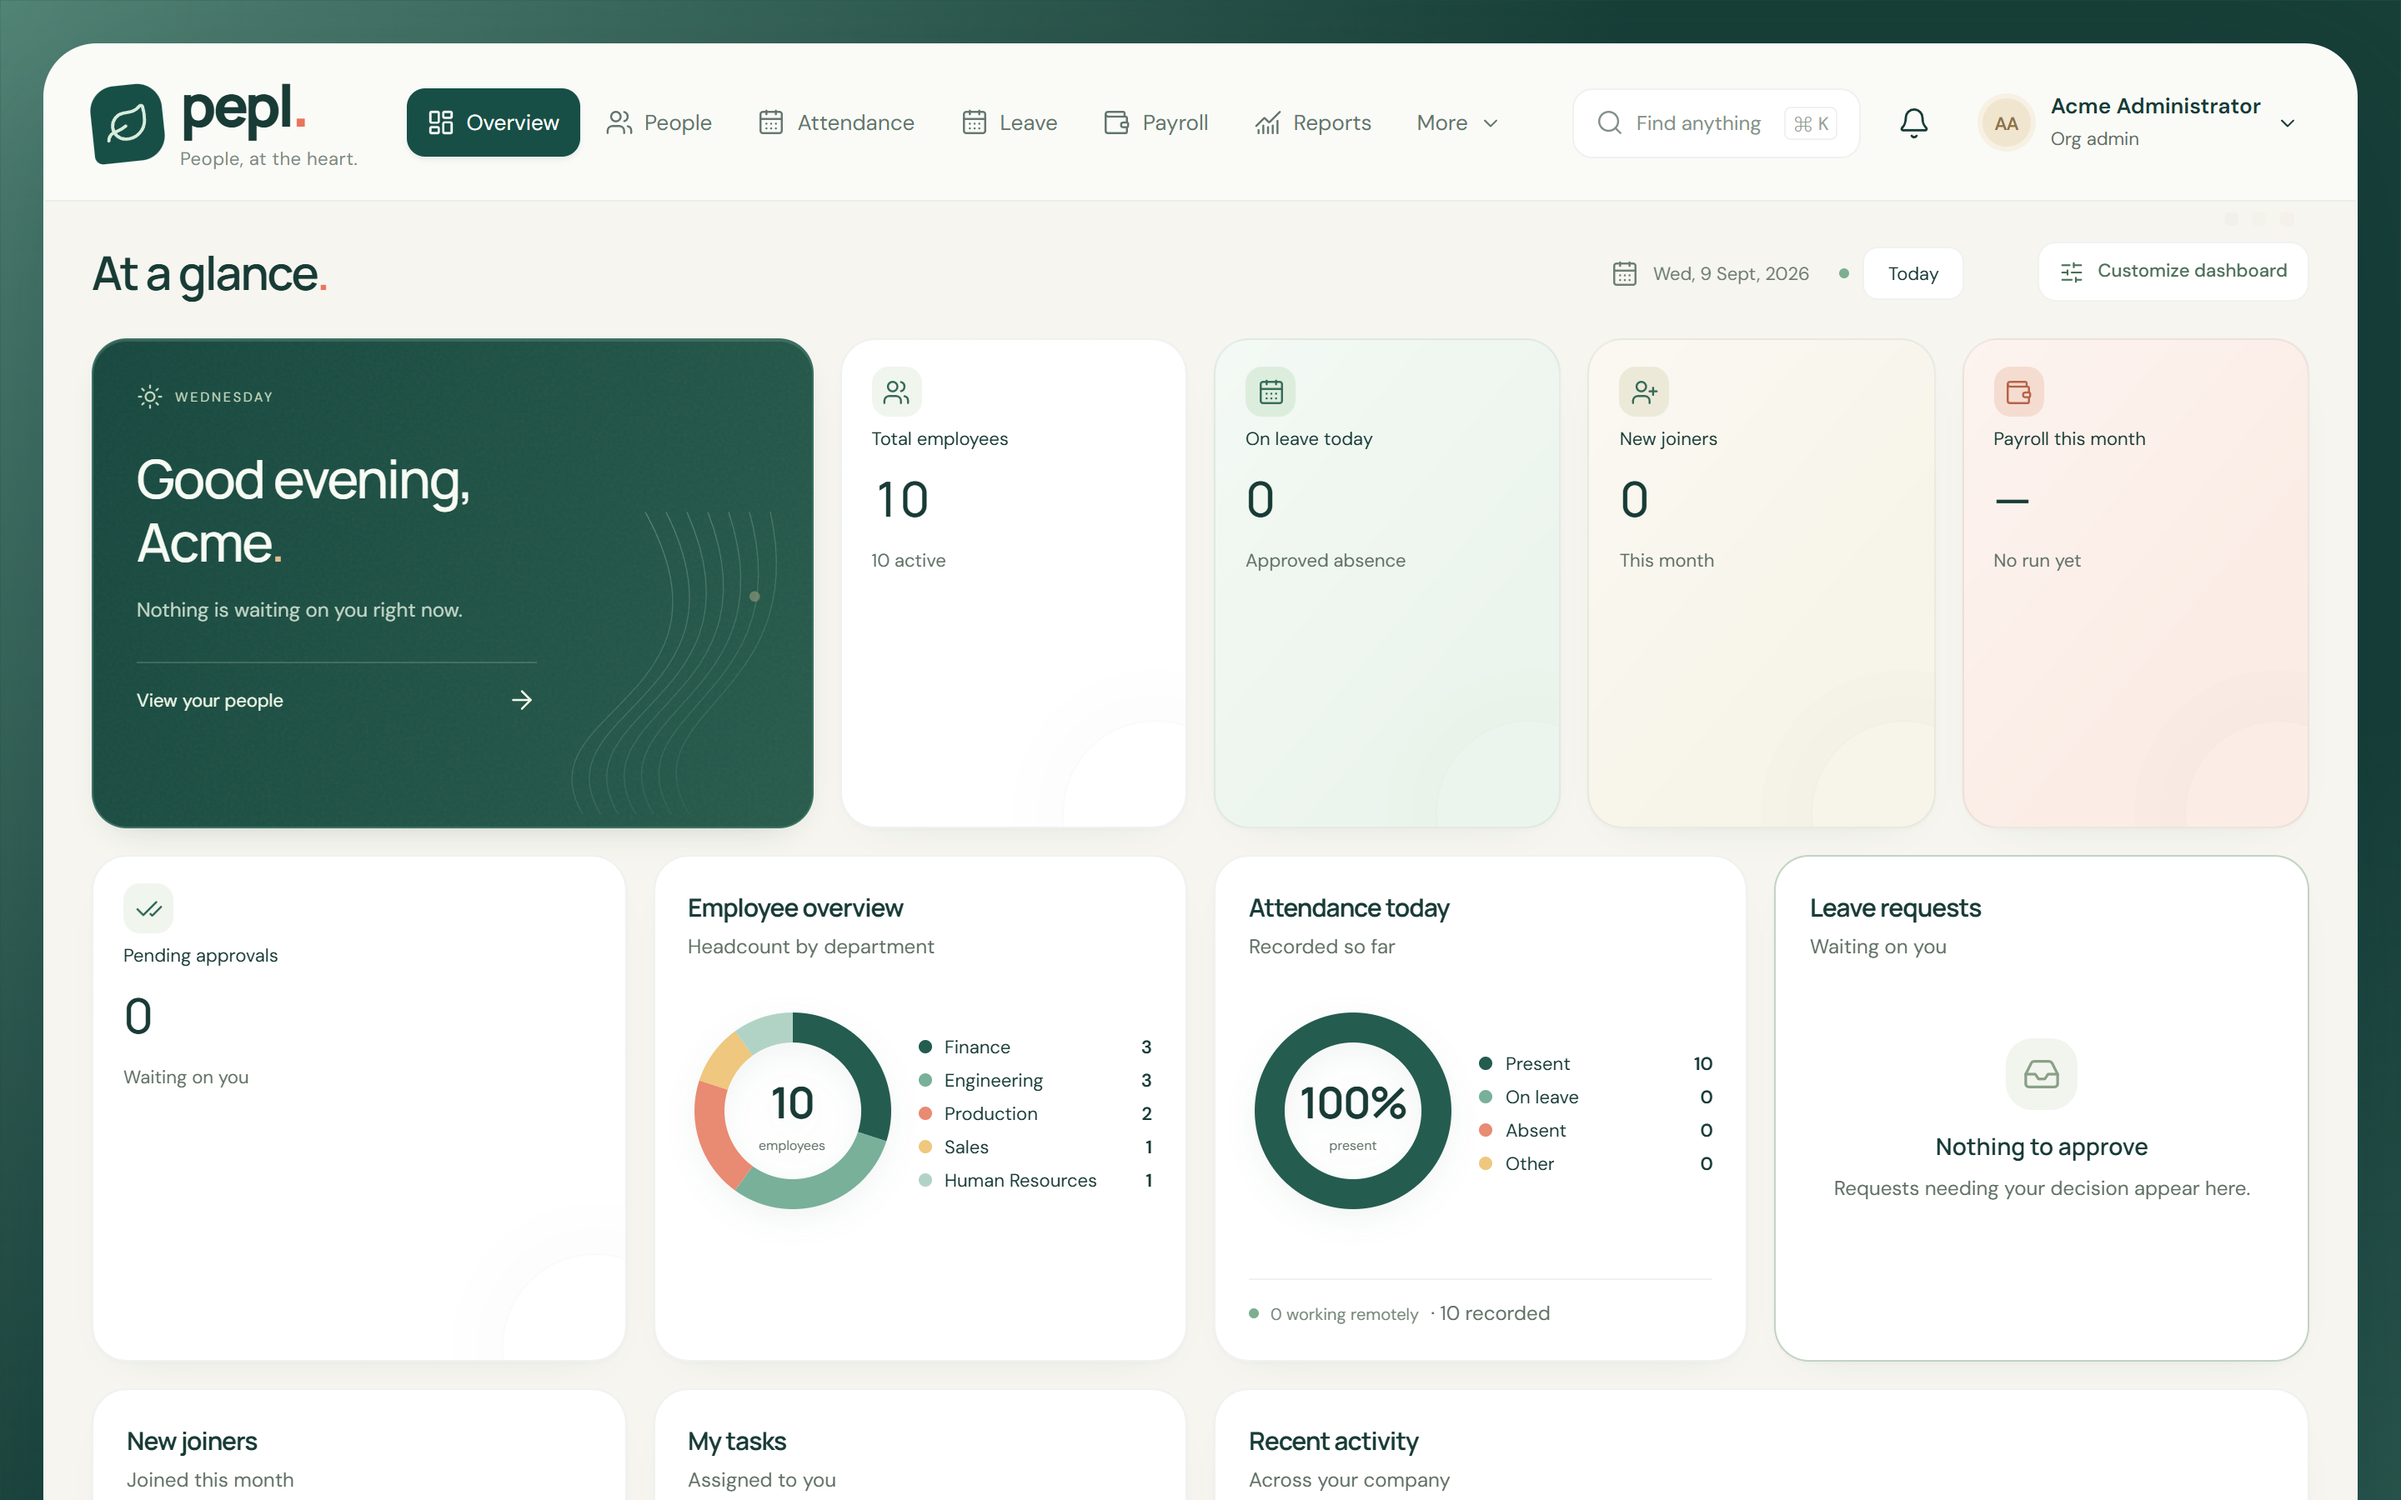
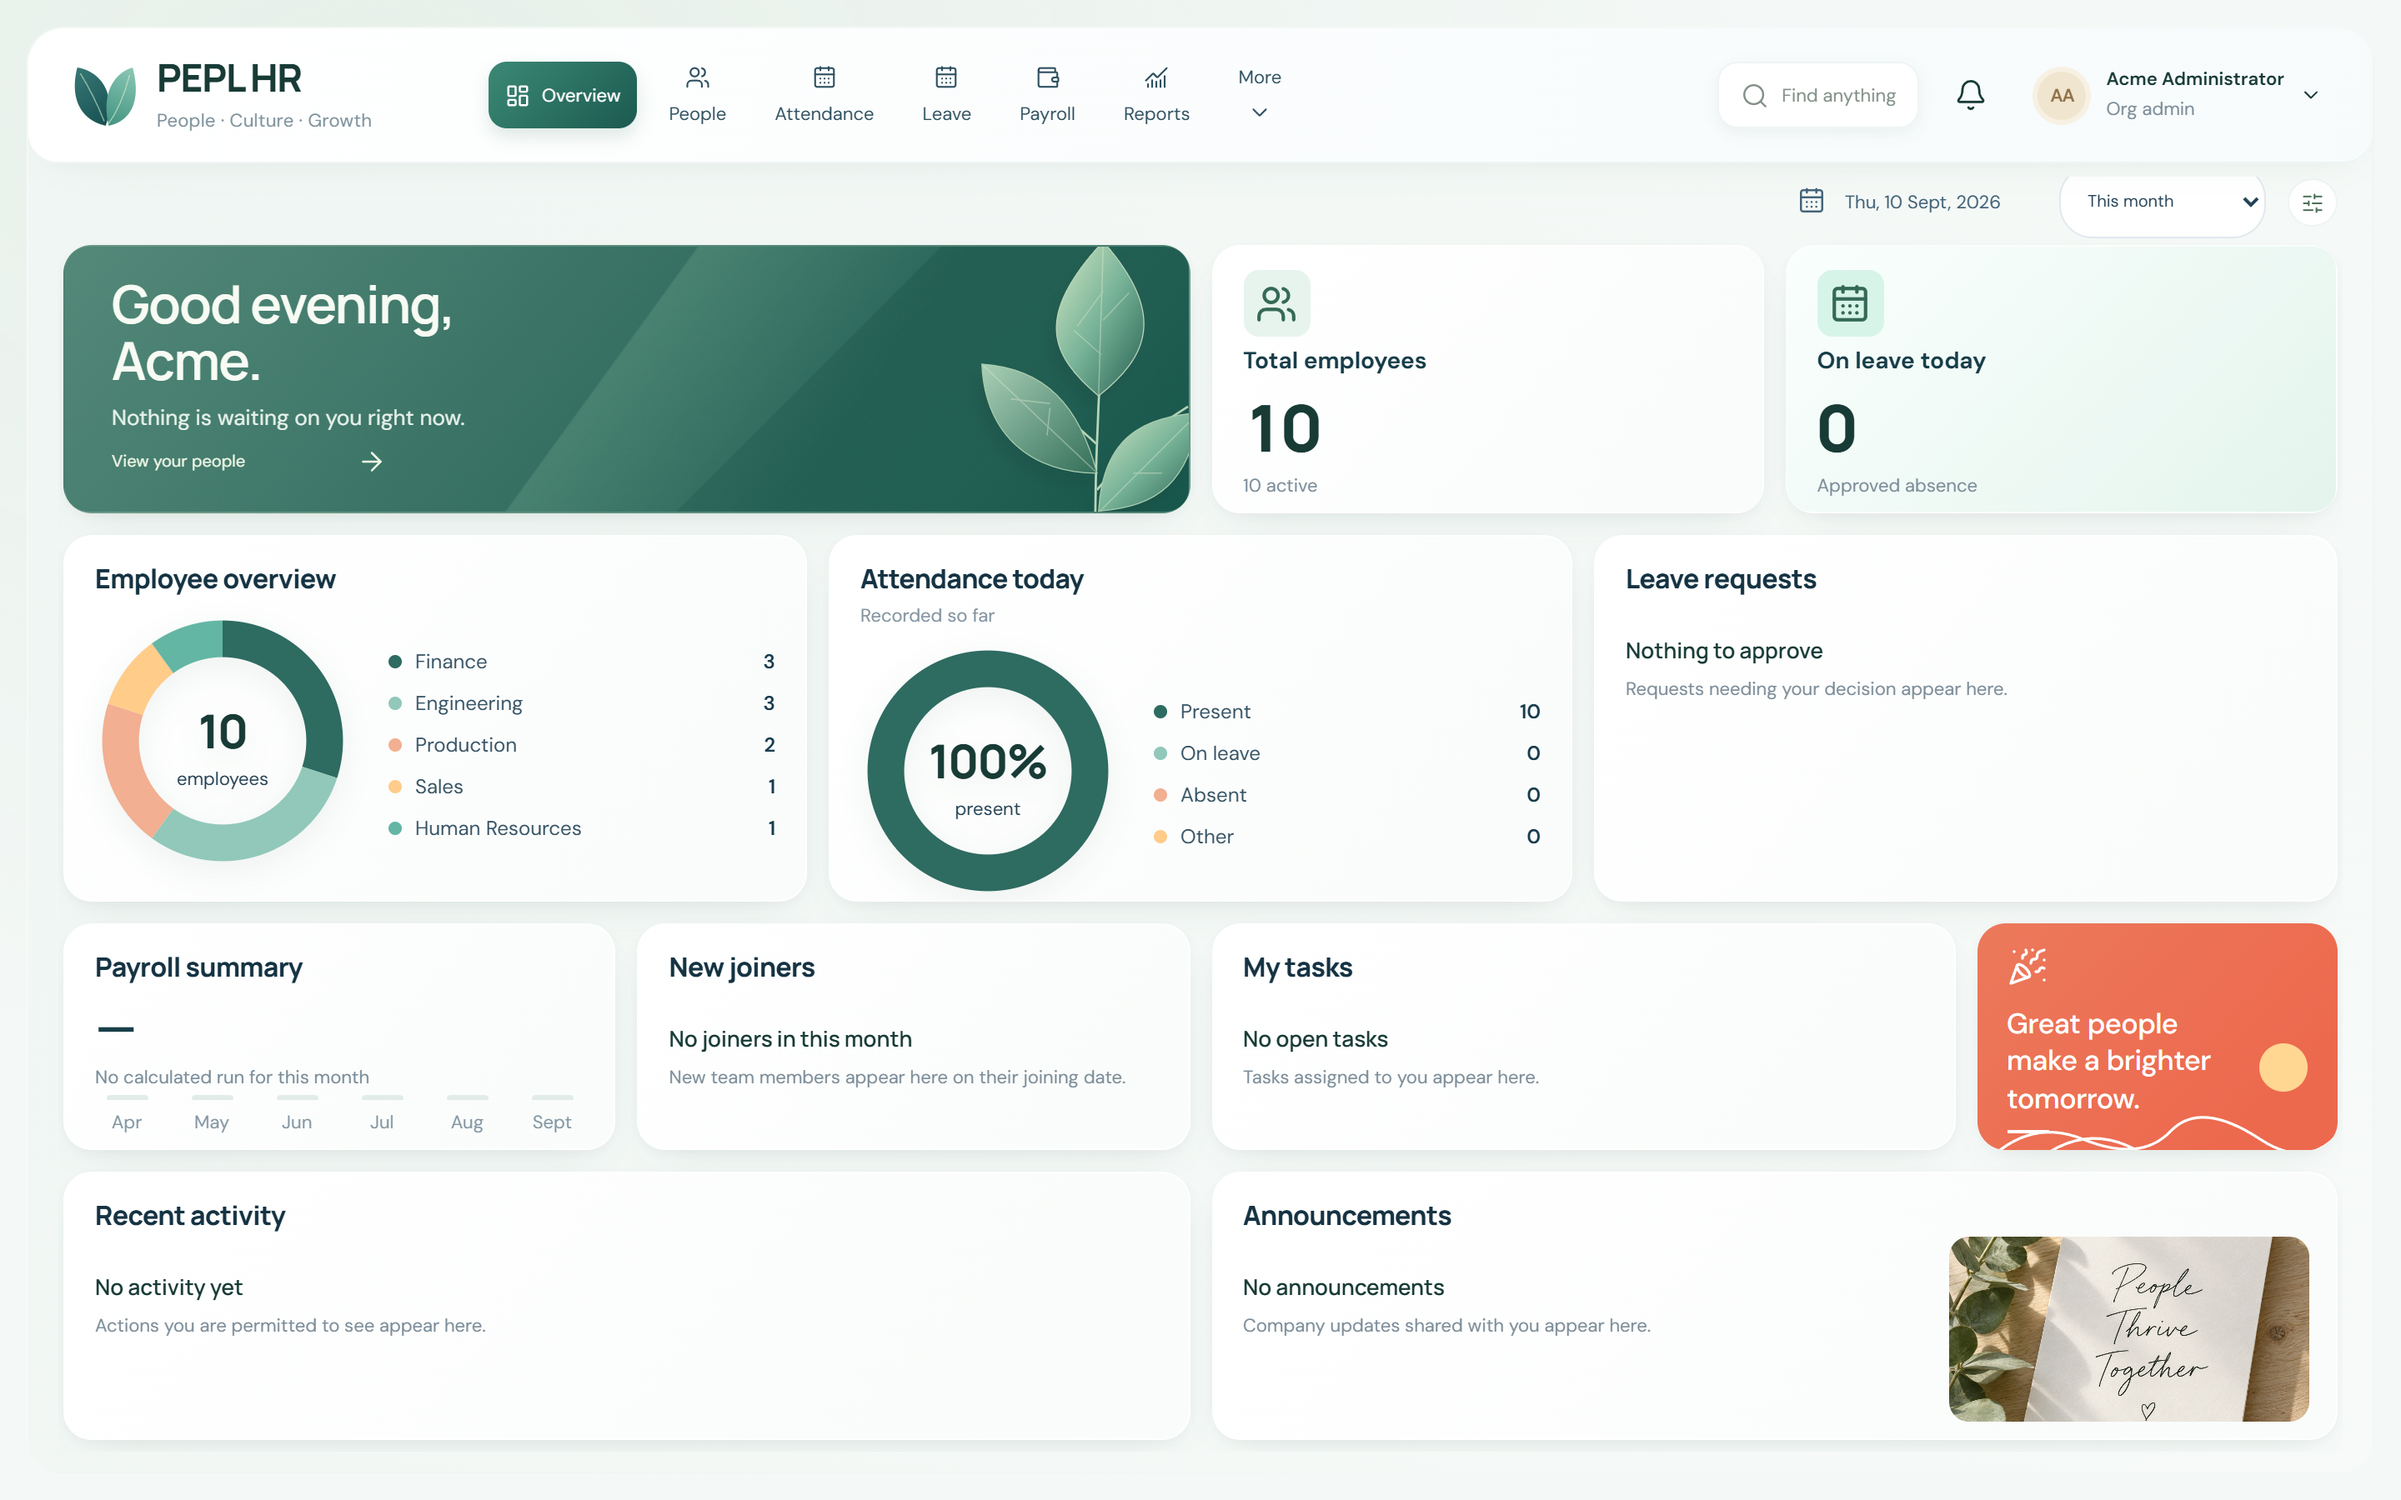
fix(web): remove the View all arrows again, and write the rule down
They were reintroduced as CSS generated content
(.widget-content .card-head::after { content:'View all  →' }), which slipped
past the component-level removal in ui.tsx entirely. The whole tile is already
the link; a second smaller target for the same destination is noise, and as
generated content it is announced, so every heading read "Employee overview
View all →".

CODEX-BRIEF.md gains a Standing UI instructions section, placed before Part 1
and marked as overriding any visual reference. It records the two rules that
have now each been undone once — no View all affordance, no decorative tiles or
aspirational copy — with the exact CSS that must not come back, plus the
accessibility gates (4.5:1 contrast, tabIndex needs a role and a reason,
swapped content needs aria-live, disabled controls must not eat focus).

Verified by screenshot: arrows gone, whole tile still the target, dashboard
still fits one viewport at 1920, 1440 and 1366.

diff --git a/web/src/styles/reference.css b/web/src/styles/reference.css
@@ -58,7 +58,9 @@ body { padding:46px 44px 40px; background: repeating-linear-gradient(132deg,tran
 .widget-content .card-head { margin-bottom:18px; align-items:center; }
 .widget-content .card-head h2 { font-size:15px; font-weight:750; color:#153343; letter-spacing:-.25px; }
 .widget-content .card-head p { font-size:10px; margin-top:4px; color:#8293a0; }
-.widget-content .card-head::after { content:'View all  →'; font-size:10px; white-space:nowrap; color:#617e91; pointer-events:none; }
+/* No "View all" affordance: the whole tile is the link (see ui.tsx Card).
+   A second, smaller target for the same destination is noise, and as generated
+   content it is read out as part of the heading — "Employee overview View all". */
 .widget-content .donut { width:166px; flex-shrink:0; }
 .widget-content .donut-layout { gap:20px; align-items:center; }
 .widget-content .donut strong { font-size:24px; font-weight:750; }
@@ -165,8 +167,8 @@ body { padding:46px 44px 40px; background: repeating-linear-gradient(132deg,tran
   .brand { min-width:230px; }
   .main-nav { margin-left:0; }
 }
-.widget-content .card-head::after { content:none; }
-.widget-content .card-linked .card-head::after { content:'View all  →'; }
+.widget-content .card-head::after,
+.widget-content .card-linked .card-head::after { content:none; }
 .route-accent { top:-47px; }
 @media(min-width:1051px) {
   [data-widget-id=joiners] .empty,[data-widget-id=tasks] .empty { padding:0; min-height:95px; }

diff --git a/CODEX-BRIEF.md b/CODEX-BRIEF.md
@@ -42,6 +42,66 @@ Build against all seven. The permission model is real: a screen that looks right
 
 ---
 
+# Standing UI instructions — these override any visual reference
+
+These come from the product owner directly. They have each been undone once by
+a later change, so they are written here rather than left in a commit message.
+If a design reference disagrees with this list, **this list wins**.
+
+## 1. No "View all" arrows. The whole tile is the link.
+
+A dashboard card reads as one object, so the entire card is the target — the
+anchor sits on the title with a stretched `::after` overlay (`web/src/ui.tsx`,
+`Card`). Do not add a second, smaller link to the same destination in the
+corner, in the header, or as generated content.
+
+This was reintroduced once as CSS:
+
+```css
+/* removed — do not restore */
+.widget-content .card-head::after { content: 'View all  →'; }
+```
+
+Generated content is also announced by screen readers, so the heading became
+"Employee overview View all →". If a card needs an affordance, style the
+existing whole-tile link; do not add a new one.
+
+## 2. No decorative tiles, no aspirational copy.
+
+Every widget slot must carry information. Removed once already:
+
+- a `.culture-card` reading "Great people make a brighter tomorrow."
+- a "People Thrive Together" stock photo tile
+
+On a 375px phone these occupied a whole page of a six-page dashboard. Earlier
+copy that was replaced for the same reason: "A team, many talents" →
+**"Employee overview"**, "Showing up, together" → **"Attendance today"**, "A
+little attention" → **"Leave requests"**.
+
+Headings name what the tile shows. Empty states say what will appear there
+("Requests needing your decision appear here"), not something encouraging.
+
+## 3. Chat and mail are real modules, gated by `modules.chat` / `modules.mail`.
+
+Not by role. See §2.1 and §2.2.
+
+## 4. Accessibility is a gate, not a polish pass.
+
+`npm run check:responsive` covers eight devices and is currently green: no
+horizontal overflow, no target under 44px on touch, no text under the floor.
+Keep it green. Specifically:
+
+- Contrast ≥ 4.5:1 for normal text. The orange culture card was white on
+  `#ed694e` — **3.12:1**, a fail.
+- A `tabIndex={0}` container needs a `role` and a reason: adding it to a
+  non-scrollable div creates a focus stop that does nothing.
+- Content that swaps in place (dashboard pages) needs `aria-live="polite"`, or
+  a screen reader user gets no signal that anything changed.
+- A control that becomes `disabled` while focused drops focus to `<body>`.
+  Keep it enabled and inert, or move focus deliberately.
+
+---
+
 # Part 1 — The rules that shape every screen
 
 ## 1. Call `GET /api/v1/me` first, and render from it
